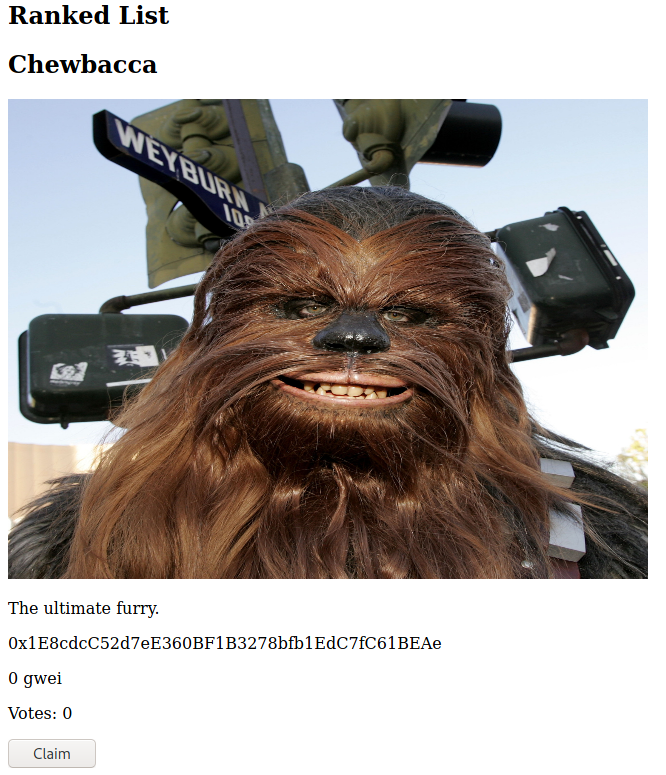
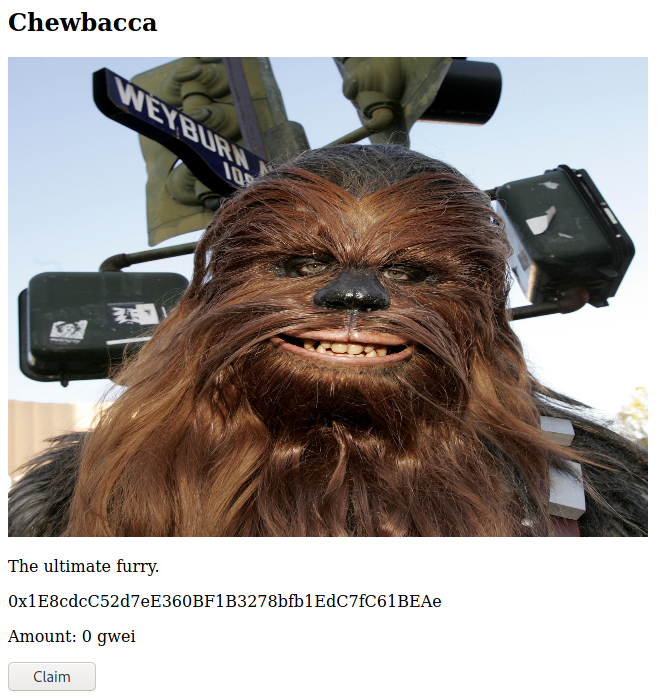
Quadratic voting: Tailwind

diff --git a/network-documentation/matic/tutorials/build-a-quadratic-voting-ranked-list-dapp.md b/network-documentation/matic/tutorials/build-a-quadratic-voting-ranked-list-dapp.md
@@ -4,7 +4,7 @@ In this tutorial, we will be learning how to create a quadratic voting app with 
 
 Here's a preview of what we will be building:
 
-![app demo](../../../.gitbook/assets/quadratic-voting-demo.gif)
+![app demo](../../../.gitbook/assets/quadratic-voting-complete.png)
 
 # Prerequisites
 
@@ -16,7 +16,7 @@ By the end of this tutorial you will be able to:
 - Create smart contracts with Solidity
 - Write tests for smart contracts
 - Compile and migrate smart contracts with Truffle
-- Build a front-end with Vue.js and TailwindCSS
+- Build a front-end with Vue.js and Tailwind CSS
 - Call smart contract functions with Web3
 - Serve images with IPFS
 - Deploy smart contracts to the Polygon Mumbai testnet
@@ -58,7 +58,7 @@ These are the additional technologies we will be using:
 - Web3.js
 - IPFS
 - Vue.js
-- TailwindCSS
+- Tailwind CSS
 
 # Project setup
 
@@ -155,10 +155,6 @@ As an example of how quadratic voting works, let's say this contract was for a r
 
 The function `createItem` is used to publish a new Item object to the ranked list. The item will require a title, IPFS image hash and text description to be set before the object can be created. The current sender is considered the owner of the item.
 
-This is an example of what a published item will look like when we build the UI:
-
-![item](../../../.gitbook/assets/quadratic-voting-item.png)
-
 ```solidity
   function positiveVote(uint itemId, uint weight) public payable {
     Item storage item = items[itemId];
@@ -205,7 +201,7 @@ Users are not able to vote for their own items because this would allow them to 
   }
 ```
 
-Negative votes are slightly different in their distribution. Rather than reward the owner for a poor addition to the list, the funds are distributed to everyone except the owner. This acts as a sort of basic income for all participants.
+Negative votes are slightly different in their distribution. Rather than reward the owner for a poor addition to the list, the funds are distributed to every item except for the one being voted on. This acts as a sort of basic income for all participants.
 
 ```solidity
   function claim(uint itemId) public {
@@ -217,7 +213,7 @@ Negative votes are slightly different in their distribution. Rather than reward 
 }
 ```
 
-This allows the owner of an item transfer any reward to their wallet.
+This allows the owner of an item to transfer any reward to their wallet.
 
 And there we go! Our smart contract is finished. Now let's learn how to deploy it.
 
@@ -438,7 +434,8 @@ export async function items(itemId) {
       title: web3.utils.hexToUtf8(item.title),
       imageHash: item.imageHash,
       description: item.description,
-      votes: item.positiveWeight - item.negativeWeight,
+      positiveWeight: item.positiveWeight,
+      negativeWeight: item.negativeWeight,
     }
   } else {
     return null
@@ -489,14 +486,12 @@ export async function rankedItems() {
     const item = await items(i)
     if (item) itemsArr.push(item)
   }
-
-  return itemsArr.sort((a, b) => a.votes - b.votes)
+  
+  return itemsArr.sort((a, b) => (b.positiveWeight - b.negativeWeight) - (a.positiveWeight - a.negativeWeight))
 }
 ```
 
 These exported functions allow us to serialize/deserialize data to and from our smart contracts.
-
-Note the changed fields `id` and `votes` in the `items` function.
 
 We need to use `utf8ToHex` because `title` is defined as the `bytes32` type in our contract.
 
@@ -691,14 +686,15 @@ Create a file named `src/components/Item.vue`.
     <img :src="`https://ipfs.io/ipfs/${item.imageHash}`" alt="item image" width="640" height="480" />
     <p>{{ item.description }}</p>
     <p>{{ item.owner }}</p>
-    <p>{{ item.amount / 1_000_000_000 }} gwei</p>
     <template v-if="address() === item.owner">
+      <p>Amount: {{ item.amount / 1_000_000_000 }} gwei</p>
       <button @click="claimGwei">Claim</button>
     </template>
     <template v-else>
       <button @click="upvote">Up</button>
-      <p>{{ item.votes + weight - startWeight }}</p>
+      <p>Votes: {{ item.positiveWeight }}</p>
       <button @click="downvote">Down</button>
+      <p>Votes: {{ item.negativeWeight }}</p>
       <div v-if="weight !== startWeight">
         <p>Weight: {{ weight }}</p>
         <p>Cost: {{ cost / 1_000_000_000 }} gwei</p>
@@ -765,6 +761,10 @@ export default {
 
 This will by far be our largest and most complex component.
 
+The first thing to notice is the `src` attribute of the image. `ipfs.io` is the gateway we will be using to access our IPFS files.
+
+
+
 Our `RankedList` component should now look something like this depending on the data you posted. We will style this later.
 
 ![ranked items with claim button](../../../.gitbook/assets/quadratic-voting-ranked-items-claim.png)
@@ -783,7 +783,132 @@ Clicking the "Submit Vote" button should allow you to confirm a transaction.
 
 ![submit vote MetaMask](../../../.gitbook/assets/quadratic-voting-submit-vote-metamask.png)
 
-# Styling the components with TailwindCSS
+# Styling the components with Tailwind CSS
+
+Next we'll be styling our Vue components to make the app look prettier.
+
+### Configuration
+
+We'll need the following packages to style our components with Tailwind CSS.
+
+```bash
+yarn add -D tailwindcss@npm:@tailwindcss/postcss7-compat postcss@^7 autoprefixer@^9 postcss-loader
+```
+
+Create a file named `postcss.config.js`. This allows us to use `tailwindcss` as a PostCSS plugin.
+
+```js
+module.exports = {
+  plugins: {
+    tailwindcss: {},
+    autoprefixer: {},
+  }
+}
+```
+
+Create a file named `tailwind.config.js`. The purge option removes any unused styles from our compiled CSS output when building in production.
+
+```js
+module.exports = {
+  purge: ["./src/**/*.vue"],
+  darkMode: false,
+  theme: {
+    extend: {},
+  },
+  variants: {},
+  plugins: [],
+}
+```
+
+Then add the following to `src/App.vue`. Note that this is a global stylesheet.
+
+```vue
+<style lang="postcss" global>
+@tailwind base;
+@tailwind components;
+@tailwind utilities;
+</style>
+```
+
+### Components
+
+Now it's finally time to make our components look like part of a real app.
+
+Edit `App.vue` to add a dark background to our app.
+
+```vue
+<template>
+  <main class="p-10 min-h-screen bg-gray-900">
+    <CreateItem />
+    <RankedList />
+  </main>
+</template>
+```
+
+Edit `CreateItem.vue` to make our form pop out more.
+
+```vue
+<template>
+  <form @submit.prevent="submit" class="bg-gray-300 p-10 w-1/2 mx-auto rounded">
+    <input type="text" v-model="title" placeholder="Title" class="px-3 py-1 w-full mb-10" />
+    <br />
+    <input type="file" placeholder="Upload image" @input="uploadImage" class="text-gray-300" />
+    <br />
+    <p class="mb-10 text-gray-300" :class="imageHash ? 'mt-3' : ''">{{ imageHash || "" }}</p>
+    <textarea v-model="description" placeholder="Description" class="px-3 py-1 w-full mb-10" />
+    <br />
+    <input type="submit" value="Create Item" class="block mx-auto px-5 py-3 bg-blue-600 hover:bg-blue-500 text-white cursor-pointer" />
+  </form>
+</template>
+```
+
+Edit `RankedList.vue` to add spacing between items and style our heading.
+
+```vue
+<template>
+  <section class="flex flex-col items-center gap-10">
+    <h1 class="text-2xl text-center text-white font-bold mt-10">Ranked List</h1>
+    <Item v-for="item in items" :key="item.id" :item="item" />
+  </section>
+</template>
+```
+
+And finally, edit `Item.vue`. The layout of this component will change a lot.
+
+```vue
+<template>
+  <div class="bg-gray-300 p-10 rounded border-b border-gray-400">
+    <div class="flex items-center">
+      <img :src="`https://ipfs.io/ipfs/${item.imageHash}`" alt="item image" class="w-1/12 mr-10 rounded shadow" />
+      <div class="mr-5">
+        <button @click="upvote" class="text-xl px-4 py-3 border border-b-2 border-black rounded hover:bg-black hover:text-white">&uarr;</button>
+        <p class="text-lg text-center mt-2">{{ item.positiveWeight }}</p>
+      </div>
+      <div class="mr-10">
+        <button @click="downvote" class="text-xl px-4 py-3 border border-b-2 border-black rounded hover:bg-black hover:text-white">&darr;</button>
+        <p class="text-lg text-center mt-2">{{ item.negativeWeight }}</p>
+      </div>
+      <div class="ml-5">
+        <h2 class="text-xl font-bold mb-5">{{ item.title }}</h2>
+        <p class="text-gray-600 mb-5">{{ item.description }}</p>
+      </div>
+      <div v-if="address() === item.owner" class="ml-auto">
+        <p class="mb-5 text-center">Amount: {{ item.amount / 1_000_000_000 }} gwei</p>
+        <button @click="claimGwei" class="block mx-auto px-5 py-3 bg-blue-600 hover:bg-blue-500 text-white">Claim</button>
+      </div>
+      <div v-else-if="weight !== startWeight" class="ml-auto">
+        <p class="mb-5 text-center">Weight: {{ weight }}</p>
+        <p class="mb-5 text-center">Cost: {{ cost / 1_000_000_000 }} gwei</p>
+        <button @click="submitVote" class="block mx-auto px-5 py-3 bg-blue-600 hover:bg-blue-500 text-white">Submit Vote</button>
+      </div>
+    </div>
+  </div>
+</template>
+```
+
+We're done! Your app should now have a much better appearance.
+
+![completed app](../../../.gitbook/assets/quadratic-voting-complete.png)
 
 # Conclusion
 
